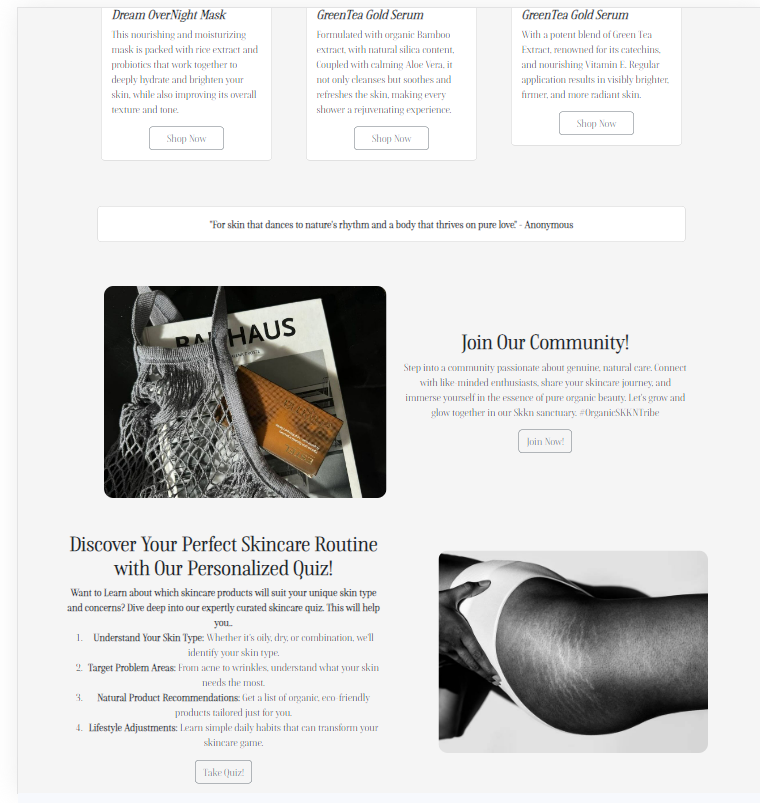
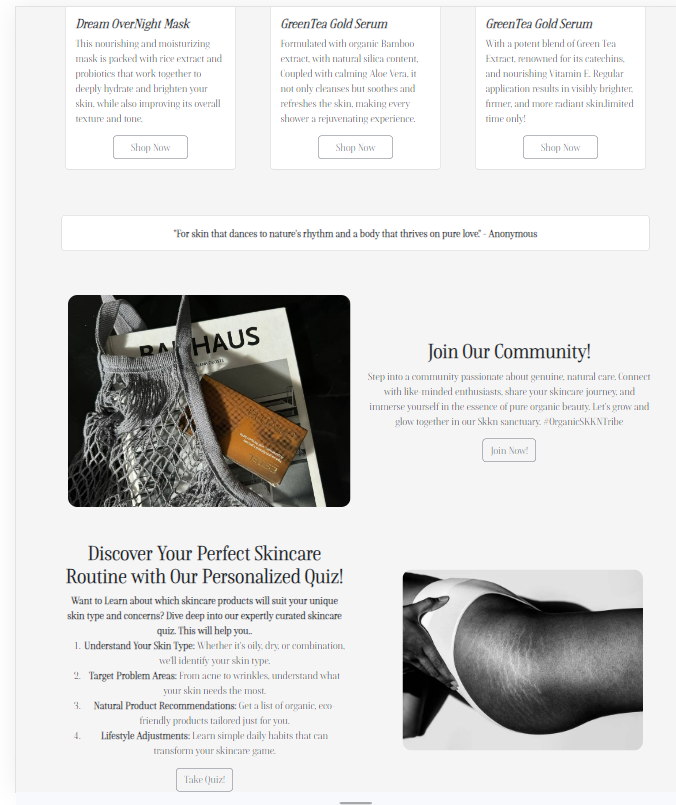
fixed readne

diff --git a/index.html b/index.html
@@ -188,7 +188,7 @@
                     <div class="card-body">
                         <h5 class="Green-tea-serum"><em><strong>GreenTea Gold Serum</strong></em></h5>
                         <p class="card-text">With a potent blend of Green Tea Extract, renowned for its catechins, and nourishing Vitamin E.
-                           Regular application results in visibly brighter, firmer, and more radiant skin.</p>
+                           Regular application results in visibly brighter, firmer, and more radiant skin.limited time only!</p>
                         <div class="d-grid gap-2 col-6 mx-auto">
                         <button class="btn btn-outline-secondary" type="button">Shop Now</button>
                       </div>
